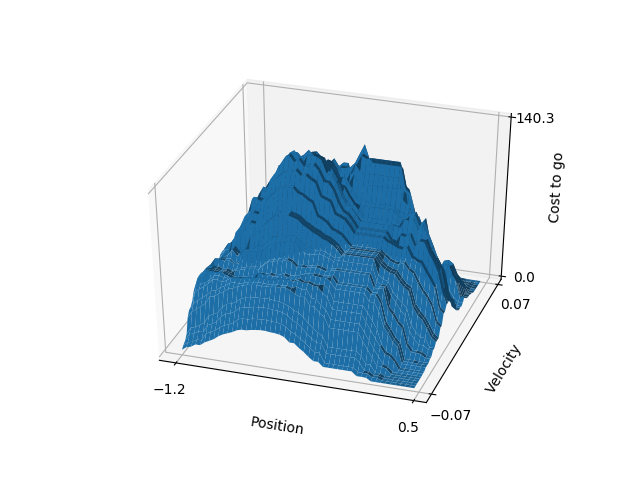
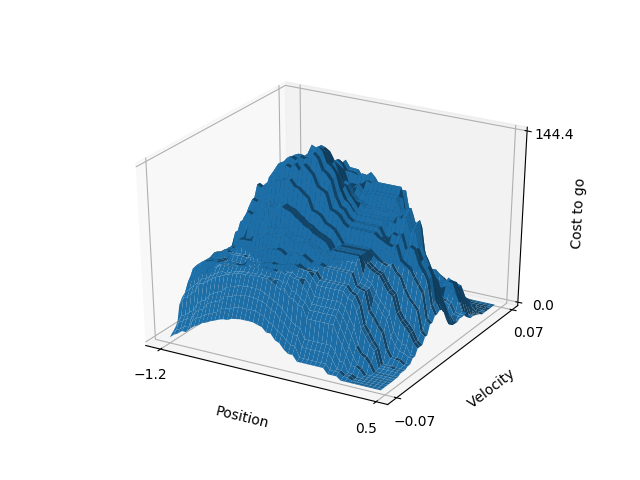
Assignment 7 Final Version

diff --git a/Assignment 7/mountaincar_exp.py b/Assignment 7/mountaincar_exp.py
@@ -11,6 +11,7 @@
 
 import numpy as np
 from rl_glue import *  # Required for RL-Glue
+from tiles3 import *
 from mpl_toolkits.mplot3d import Axes3D
 from matplotlib import pyplot as plt
 RLGlue("mountaincar", "sarsa_lambda_agent")
@@ -24,7 +25,6 @@ if __name__ == "__main__":
 
     for r in range(num_runs):
         print "run number : ", r+1
-        RL_agent_message("LearningCurve")
         RL_init()
         for e in range(num_episodes):
             # print '\tepisode {}'.format(e+1)
@@ -50,11 +50,21 @@ if __name__ == "__main__":
     steps = 50
     x = np.arange(-1.2, 0.5, 1.7 / steps)
     y = np.arange(-0.07, 0.07, 0.14 / steps)
+    Q = np.zeros([steps, steps])
     x, y = np.meshgrid(x, y)
-    Q = RL_agent_message("ValueFunction")
+    [W, iht] = RL_agent_message("ValueFunction")
     for i in range(steps):
+        pos = -1.2 + (i * 1.7 / steps)
         for j in range(steps):
-            height = Q[j][i]
+            vel = -0.07 + (j * 0.14 / steps)
+            values = []
+            for a in range(3):
+                X = np.zeros(len(W))
+                for index in tiles(iht, 8, [8*pos/(0.5+1.2), 8*vel/(0.07+0.07)], [a]):
+                    X[index] = 1.0
+                values.append(-np.dot(W, X))
+            height = np.amax(values)
+            Q[j][i] = height
             fout.write(repr(height)+'')
         fout.write('\n')
     fout.close()

diff --git a/Assignment 7/sarsa_lambda_agent.py b/Assignment 7/sarsa_lambda_agent.py
@@ -120,7 +120,6 @@ def agent_cleanup():
 
 
 def agent_message(in_message):  # returns string, in_message: string
-    global W
     """
     Arguments: in_message: string
     returns: The value function as a string.
@@ -128,21 +127,6 @@ def agent_message(in_message):  # returns string, in_message: string
     """
     # should not need to modify this function. Modify at your own risk
     if in_message == 'ValueFunction':
-        steps = 50
-        Q = np.zeros([steps, steps])
-        for i in range(steps):
-            pos = -1.2 + (i * 1.7 / steps)
-            for j in range(steps):
-                vel = -0.07 + (j * 0.14 / steps)
-                values = []
-                for a in range(3):
-                    X = np.zeros(len(W))
-                    for index in tiles(iht, numTilings, [sizeOfTilings[0]*pos/(0.5+1.2), sizeOfTilings[1]*vel/(0.07+0.07)], [a]):
-                        X[index] = 1.0
-                    values.append(-np.dot(W, X))
-                height = np.amax(values)
-                Q[j][i] = height
-
-        return Q
+        return [W, iht]
     else:
         return ""
